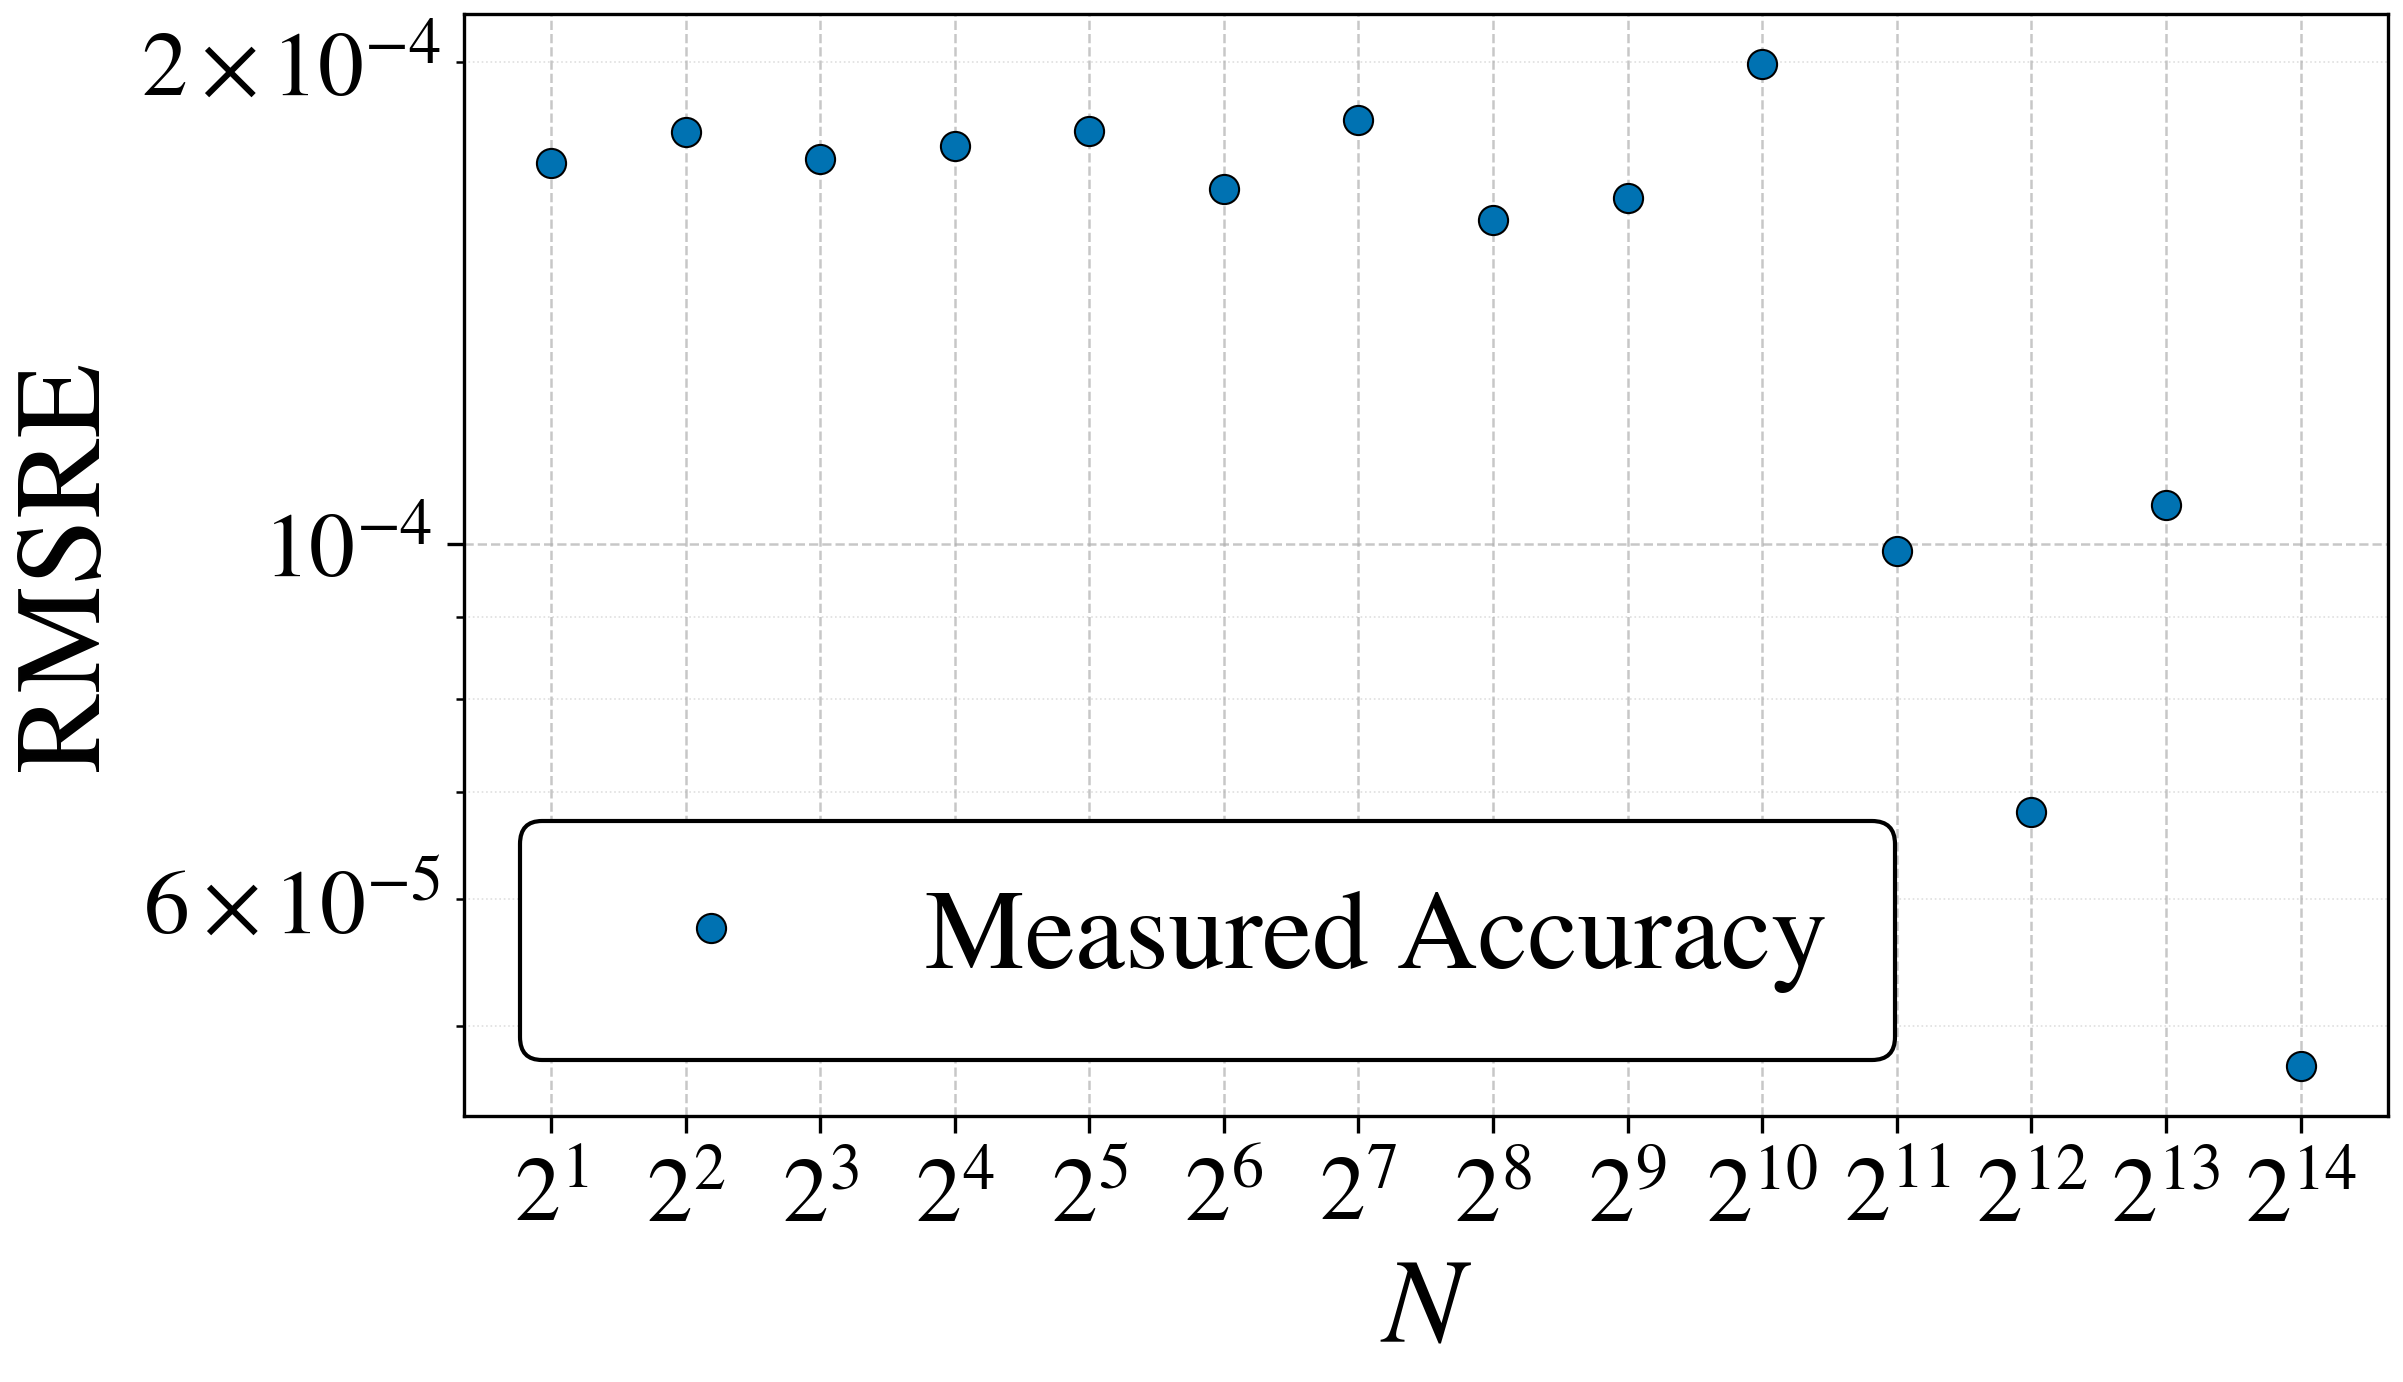
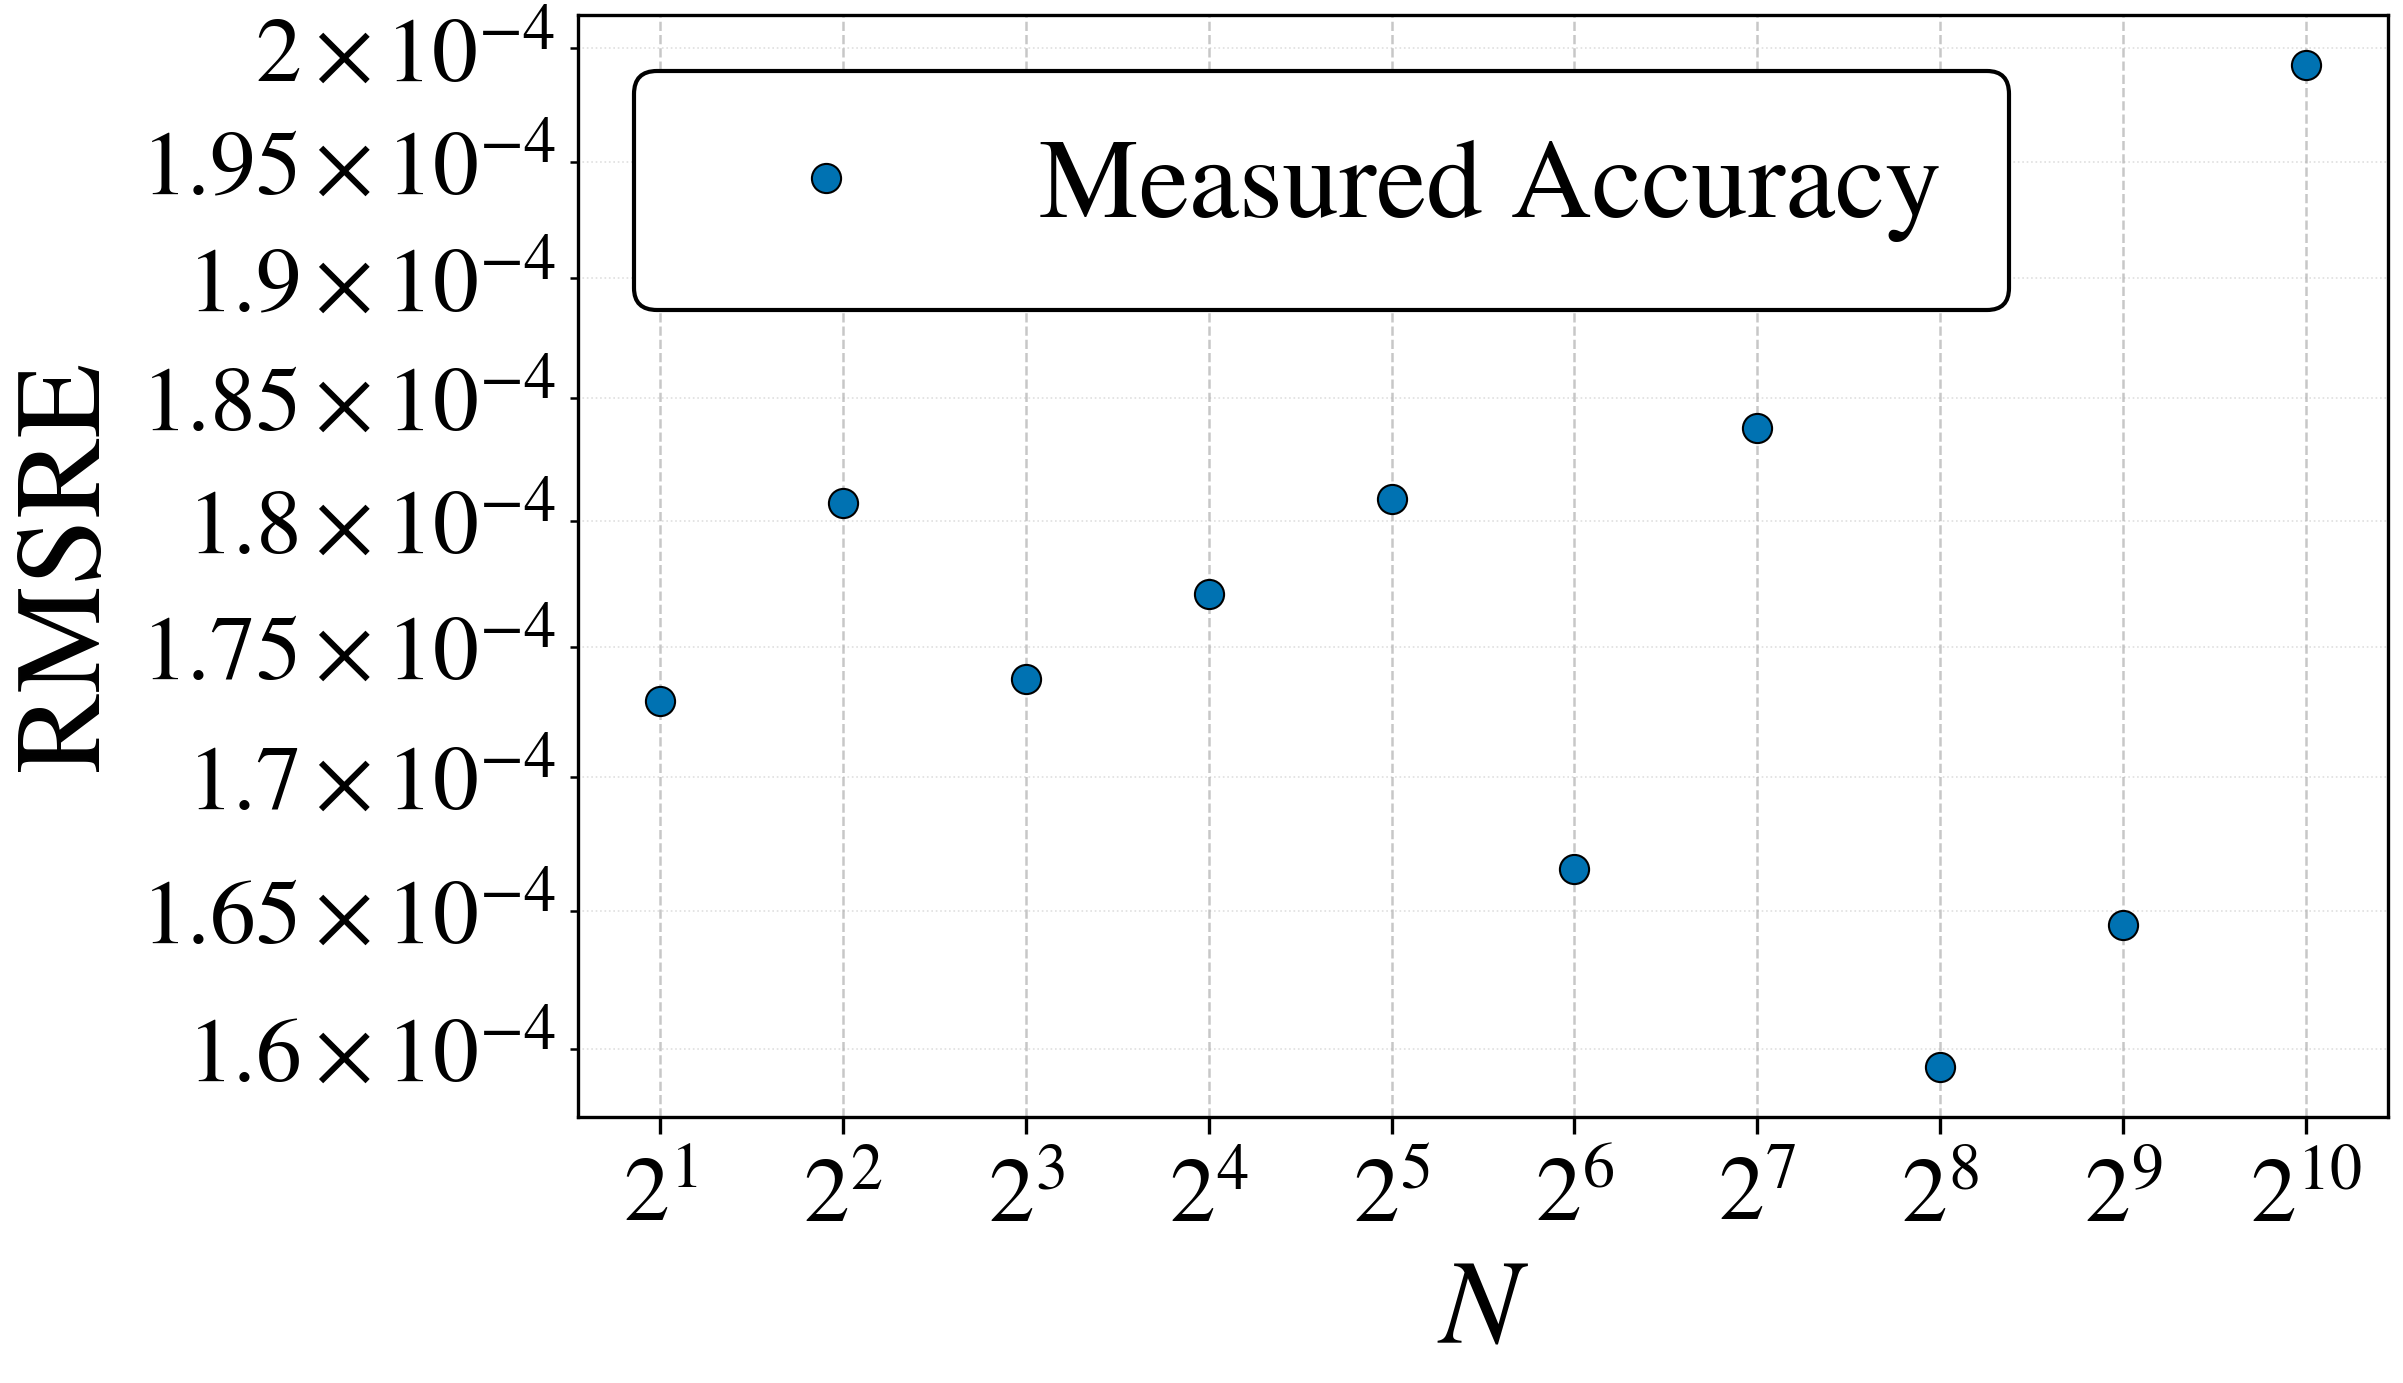
m

diff --git a/evaluation/layernorm/N_sweep/scripts/plot_accuracy.py b/evaluation/layernorm/N_sweep/scripts/plot_accuracy.py
@@ -14,12 +14,13 @@ length ``N`` (``images/accuracy_0_newton.png`` for 0 steps,
 
 Design notes
 ------------
-* Both axes are logarithmic: ``N`` spans three decades (2 .. 16384, always a
-  power of two) and RMSRE spans a wide range, so a log-log view keeps every
-  point legible and makes power-law trends read as straight lines. The x-axis
-  uses base 2 (``N`` is a power of two) with the actual N values as tick labels.
-  Each figure's y-axis is autoscaled to its own series, so both read clearly
-  despite the two configurations occupying different RMSRE ranges.
+* Both axes are logarithmic: ``N`` is restricted to 2 .. 1024 (``N_MAX``, always
+  a power of two) to match the sibling resources plots, and RMSRE spans a wide
+  range, so a log-log view keeps every point legible and makes power-law trends
+  read as straight lines. The x-axis uses base 2 (``N`` is a power of two) with
+  the sampled N values, labelled as ``2^k``, as tick labels. Each figure's y-axis
+  is autoscaled to its own series, so both read clearly despite the two
+  configurations occupying different RMSRE ranges.
 * Each measurement is drawn as a bare marker (no connecting line), so the raw
   sweep is shown exactly as sampled.
 * Only the 1-Newton series is close to a straight line on these log-log axes
@@ -31,8 +32,8 @@ Design notes
   recorded in the shared ``data/fit_parameters.txt`` under an ``[accuracy]``
   section (written via ``fit_report``, alongside the resources script's
   section). The 0-Newton series is an accuracy floor set by the base LUT
-  approximation (RMSRE roughly flat, then declining, over N), which is not a
-  power law, so it is plotted as measured points only with no fit line.
+  approximation (RMSRE roughly flat over N), which is not a power law, so it is
+  plotted as measured points only with no fit line.
 * The data markers are Okabe-Ito blue; the fit line is red so it contrasts
   clearly with the markers.
 * Text uses matplotlib's built-in STIX mathtext fontset, which gives
@@ -91,6 +92,13 @@ SERIES = (
 # contrasts with the blue data markers and reads clearly as the fit.
 COLOR_FIT = "red"
 
+# Largest N to plot. The accuracy reports sweep N up to 16384, but the figures
+# are restricted to N <= 1024 (2^1 .. 2^10) so their x-range matches the sibling
+# resources plots (whose synthesis data only covers N <= 1024). The cap is
+# applied at load time, so both the drawn points and the power-law fit use this
+# same restricted range.
+N_MAX = 1024
+
 
 def pow2_label(n: int) -> str:
     """Format a sampled ``N`` as a base-2 power label for the log x-axis.
@@ -109,9 +117,11 @@ def pow2_label(n: int) -> str:
 def load_accuracy_csv(path: Path) -> tuple[list[float], list[float]]:
     """Load the ``(N, RMSRE)`` columns from an accuracy CSV.
 
-    Returns two parallel lists sorted by ascending ``N`` (so the points are laid
-    out in x-order regardless of the file's row order). Raises ``ValueError`` if
-    the file is empty or missing the expected columns.
+    Only rows with ``N <= N_MAX`` are kept, so the figures cover the same
+    restricted N-range as the sibling resources plots. Returns two parallel lists
+    sorted by ascending ``N`` (so the points are laid out in x-order regardless of
+    the file's row order). Raises ``ValueError`` if the file is empty, is missing
+    the expected columns, or has no rows within the ``N <= N_MAX`` range.
     """
     required = {"N", "RMSRE"}
     with path.open("r", newline="", encoding="utf-8") as handle:
@@ -120,9 +130,13 @@ def load_accuracy_csv(path: Path) -> tuple[list[float], list[float]]:
             raise ValueError(
                 f"expected columns {sorted(required)} in {path}, found {reader.fieldnames}"
             )
-        rows = [(int(row["N"]), float(row["RMSRE"])) for row in reader]
+        rows = [
+            (int(row["N"]), float(row["RMSRE"]))
+            for row in reader
+            if int(row["N"]) <= N_MAX
+        ]
     if not rows:
-        raise ValueError(f"no data rows in {path}")
+        raise ValueError(f"no data rows with N <= {N_MAX} in {path}")
     rows.sort(key=lambda r: r[0])
     n_vals, rmsre = ([r[0] for r in rows], [r[1] for r in rows])
     return n_vals, rmsre
